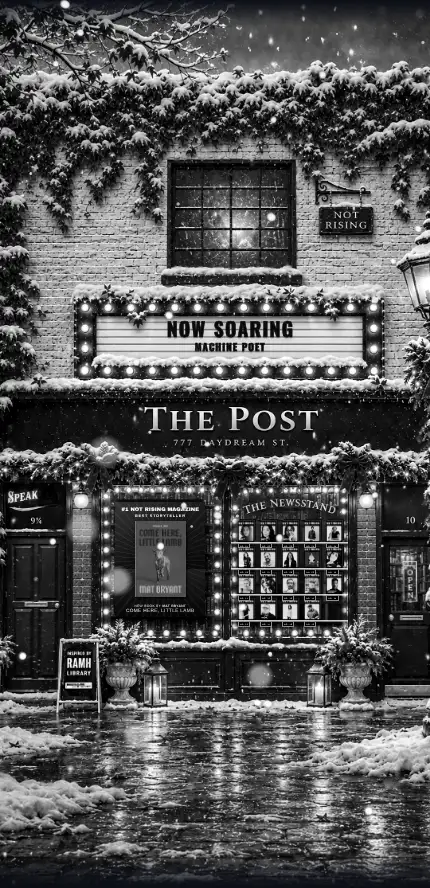
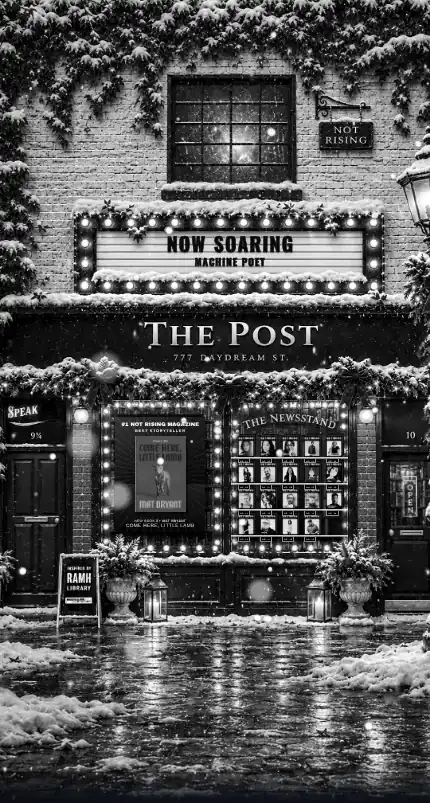
Phone storefront: crop the sky, open on the ivy
Winter phone picture (winter-phone-stage.webp) and its black-and-white Teleporting copy: the night sky and branches cut off the top (160 of the 810-wide plan), so phones open on the snowy ivy like the wide picture. Full-length street kept at the bottom.
storefront.js: STAGES.winter.phone moved up 160 to match (h 1512), plus a picture version so phones fetch the new picture.
storefront.css: picture shape 810 / 1512, pinned to the top of the screen (no top fade), Teleporting sign over the upstairs window.
index.html: version numbers bumped. tools: make-phone-stage.py and speakeasy-sign-easy.py updated to the new crop.

Claude-Session: https://claude.ai/code/session_018yMsHnbU2LCGJMUuPvSmNR

diff --git a/assets/storefront.css b/assets/storefront.css
@@ -323,7 +323,7 @@
 /* winter's own black-and-white street (index.html says data-season="winter" while winter is showing, so this one
    is the picture the browser fetches first) */
 .nrsf[data-season="winter"] .nrsf-teleport { background-image: url("img/storefront/winter-desk-bw.webp"); }
-@media (max-width: 639px) { .nrsf[data-season="winter"] .nrsf-teleport { background-image: url("img/storefront/winter-phone-bw.webp"); } }
+@media (max-width: 639px) { .nrsf[data-season="winter"] .nrsf-teleport { background-image: url("img/storefront/winter-phone-bw.webp?v=20261122f"); } }
 .nrsf .nrsf-teleport.gone { opacity: 0; }
 .nrsf .nrsf-tp-sign { position: absolute; left: 50%; top: 17.5%; translate: -50% -50%; margin: 0; white-space: nowrap;   /* hung over the upstairs window (17.5% down the street on both plans) */
   display: flex; align-items: baseline;
@@ -360,7 +360,7 @@
    ============================================================ */
 /* the street takes the picture's shape (1295 x 1215) on every screen, decided before anything loads */
 .nrsf[data-season="winter"] .nrsf-scene { aspect-ratio: 1295 / 1215; }
-@media (max-width: 639px) { .nrsf[data-season="winter"] .nrsf-scene { aspect-ratio: 810 / 1672; } }   /* phones: their own tall picture, zoomed in */
+@media (max-width: 639px) { .nrsf[data-season="winter"] .nrsf-scene { aspect-ratio: 810 / 1512; } }   /* phones: their own tall picture, zoomed in, starting at the ivy */
 /* painted pieces the picture already has */
 .nrsf--stage .nrsf-scene .nrsf-ivy, .nrsf--stage .nrsf-scene .nrsf-fascia, .nrsf--stage .nrsf-scene .nrsf-glassbox,
 .nrsf--stage .nrsf-scene .nrsf-opensign, .nrsf--stage .nrsf-scene .nrsf-interior, .nrsf--stage .nrsf-scene .nrsf-win .nrsf-glass,
@@ -381,15 +381,16 @@
 .nrsf--stage .nrsf-scene .nrsf-board { background: none; border: 0; box-shadow: none; }
 .nrsf--stage .nrsf-scene .nrsf-tiles:has(.sub) { font-size: min(7.4cqw, 51cqh); gap: .16em; }
 .nrsf--stage .nrsf-scene .nrsf-marquee[role=button]:hover { filter: brightness(1.06); }
-/* Phones: their own tall picture (STAGES.winter.phone), centred in a snowy night that fills whatever screen height is
-   left. Its top and bottom fade into the night, the snow falls over the whole screen (the sky layer), and the
-   small things to tap (the hanging sign, the A-frame, the poster) get a bigger invisible edge, so a finger finds them. */
+/* Phones: their own tall picture (STAGES.winter.phone). Like the wide picture on bigger screens, it starts right at
+   the top of the screen with the snowy ivy (no sky); if the screen is taller than the picture, the snowy night fills
+   the rest below the pavement. Its bottom fades into that night, the snow falls over the whole screen (the sky layer),
+   and the small things to tap (the hanging sign, the A-frame, the poster) get a bigger invisible edge, so a finger finds them. */
 @media (max-width: 639px) {
-  .nrsf[data-season="winter"] { min-height: 100vh; min-height: 100svh; display: flex; flex-direction: column; justify-content: center;
+  .nrsf[data-season="winter"] { min-height: 100vh; min-height: 100svh; display: flex; flex-direction: column; justify-content: flex-start;
     background: radial-gradient(ellipse 120% 70% at 50% 50%, #1a1f2d 0%, #0e121b 55%, #080a10 100%); }
-  .nrsf[data-season="winter"] .nrsf-scene { flex: none; -webkit-mask-image: linear-gradient(transparent 0, #000 3%, #000 96%, transparent 100%); mask-image: linear-gradient(transparent 0, #000 3%, #000 96%, transparent 100%); }
-  .nrsf[data-season="winter"] .nrsf-teleport { background-position: center; background-color: #0e121b; }
-  .nrsf[data-season="winter"] .nrsf-tp-sign { top: calc(50% - 53.8vw); }    /* over the upstairs window: the picture is 206vw tall, centred */
+  .nrsf[data-season="winter"] .nrsf-scene { flex: none; -webkit-mask-image: linear-gradient(#000 96%, transparent 100%); mask-image: linear-gradient(#000 96%, transparent 100%); }
+  .nrsf[data-season="winter"] .nrsf-teleport { background-position: top center; background-color: #0e121b; }
+  .nrsf[data-season="winter"] .nrsf-tp-sign { top: 29.9vw; }    /* over the upstairs window: its middle is 242 of the picture's 810 across, down from the top */
   .nrsf--stage .nrsf-scene .nrsf-signbox::after, .nrsf--stage .nrsf-scene .nrsf-floorsign::after, .nrsf--stage .nrsf-scene .nrsf-poster::after {
     content: ""; position: absolute; inset: -10px; }
 }

diff --git a/assets/storefront.js b/assets/storefront.js
@@ -96,17 +96,19 @@
       news: { x0: 24, x1: 292, y0: 64, cols: 5, coverW: 31, rowH: 53, tag: 3.6, tagGap: 3.5, ring: 0 },
       // PHONES (screens under 640 wide) get their own picture, made for a phone held upright: Kathi's tall winter
       // picture (winter-phone-stage.webp, made ready by tools/make-phone-stage.py), zoomed in so the shop fills the phone
-      // edge to edge, like the fall street. Its numbers are the cropped picture's own pixels (810 x 1672).
+      // edge to edge, like the fall street. Its numbers are the cropped picture's own pixels (810 x 1512).
+      // Like the wide picture, it starts at the snowy ivy: the night sky and branches above it (the top 160) are cut off.
       phone: {
-        stage: "winter", ref: 810, h: 1672, ground: 1322,      // (cropped from x 40 to 850 of her 941-wide picture: zoomed in)
-        sign: { x: 572, y: 332, w: 152, h: 116 },
-        marquee: { x: 140, y: 556, w: 585, h: 156 }, pad: [36, 43, 40, 44],   // pad: frame to board (top, right, bottom, left)
-        fascia: { x: 0, y: 735, w: 810, h: 128 },
-        neon: { x: 5, y: 905, w: 122, h: 95 }, num: { x: 718, y: 950, w: 90, h: 52 },
-        front: { glass: [{ x: 192, y: 915, w: 222, h: 280 }, { x: 426, y: 915, w: 238, h: 280 }] },
-        doors: [{ side: "l", leaf: { x: 14, y: 1012, w: 106, h: 288 } }, { side: "r", leaf: { x: 724, y: 1006, w: 80, h: 283 } }],
-        floorSign: { x: 104, y: 1198, w: 90, h: 146 },
-        poster: { x: 217, y: 946, w: 170 },
+        stage: "winter", ref: 810, h: 1512, ground: 1162,      // (cropped from x 40 to 850 and from y 160 down, of her 941 x 1672 picture)
+        v: "20261122f",                                         // the picture's version: change it whenever the picture file changes, so phones fetch the new one
+        sign: { x: 572, y: 172, w: 152, h: 116 },
+        marquee: { x: 140, y: 396, w: 585, h: 156 }, pad: [36, 43, 40, 44],   // pad: frame to board (top, right, bottom, left)
+        fascia: { x: 0, y: 575, w: 810, h: 128 },
+        neon: { x: 5, y: 745, w: 122, h: 95 }, num: { x: 718, y: 790, w: 90, h: 52 },
+        front: { glass: [{ x: 192, y: 755, w: 222, h: 280 }, { x: 426, y: 755, w: 238, h: 280 }] },
+        doors: [{ side: "l", leaf: { x: 14, y: 852, w: 106, h: 288 } }, { side: "r", leaf: { x: 724, y: 846, w: 80, h: 283 } }],
+        floorSign: { x: 104, y: 1038, w: 90, h: 146 },
+        poster: { x: 217, y: 786, w: 170 },
         news: { x0: 16, x1: 224, y0: 66, cols: 5, coverW: 30, rowH: 49, tag: 3.8, tagGap: 3, ring: 0 }
       }
     }
@@ -1861,7 +1863,8 @@
     }
     const picture = name => {
       const file = `storefront/${season}-${G.phone ? "phone" : "desk"}-${name}.webp`;
-      return PICS[file] || (PICS[file] = new Promise(res => { const i = new Image(); i.onload = () => res(i); i.onerror = () => res(null); i.src = img(file); }));
+      const ver = G.v ? "?v=" + G.v : "";                          // a stage picture's version (STAGES), so a changed picture is never an old copy from the browser's memory
+      return PICS[file] || (PICS[file] = new Promise(res => { const i = new Image(); i.onload = () => res(i); i.onerror = () => res(null); i.src = INLINE[file] || img(file) + ver; }));
     };
     function paintScene() {
       if (G.stage) return paintStage();

diff --git a/index.html b/index.html
@@ -28,7 +28,7 @@ body { margin: 0; font: 14px -apple-system, BlinkMacSystemFont, sans-serif; }
 img { max-width: 100%; }
 [hidden] { display: none !important; }
 </style>
-<link rel="stylesheet" href="assets/storefront.css?v=20261122e">
+<link rel="stylesheet" href="assets/storefront.css?v=20261122f">
 <script src="assets/season.js"></script><!-- the weather dial: the one word that picks the season -->
 </head>
 <body>
@@ -110,6 +110,6 @@ document.getElementById("nrsf").dataset.season = String(window.NR_SEASON || "fal
 <script>window.NRSF_BASE = new URL("assets/img/", location.href).href; window.NRNS_BASE = "assets/img/";</script>
 <script src="assets/data.js?v=20261122e"></script>
 <script src="assets/snowfall.js?v=20261122d"></script><!-- the falling snow (winter) -->
-<script src="assets/storefront.js?v=20261122d"></script>
+<script src="assets/storefront.js?v=20261122f"></script>
 </body>
 </html>

diff --git a/tools/make-phone-stage.py b/tools/make-phone-stage.py
@@ -17,11 +17,12 @@ the wide one (tools/make-stage.py). This gets it ready the same way, in six step
      poster (POSTERS in data.js) hangs over it.
   5. The Speakeasy sign: only SPEAK is lit; EASY has almost worn away.
   6. Zoomed in like the fall street on phones: cropped from the red door's frame (x 40) to door 10's frame
-     (x 850), so both doors sit at the edges of the screen. Saved as assets/img/storefront/winter-phone-stage.webp,
+     (x 850), so both doors sit at the edges of the screen, and from y 160 down, so (like the wide picture) it
+     starts at the snowy ivy with no sky above (Kathi, Nov 22). Saved as assets/img/storefront/winter-phone-stage.webp,
      1080 pixels wide (a touch sharpened).
 
 Positions in steps 1-5 are in the whole picture's pixels (941 x 1672). STAGES.winter.phone in storefront.js uses
-the cropped picture's (810 x 1672): the same numbers, 40 less across.
+the cropped picture's (810 x 1512): the same numbers, 40 less across and 160 less down.
 """
 import os, sys, numpy as np, cv2
 from PIL import Image, ImageFilter
@@ -114,10 +115,12 @@ im = np.clip(f, 0, 255).astype(np.uint8)
 print("5. Speakeasy sign: SPEAK lit, EASY worn away")
 
 # 6. zoomed in like the fall street on phones: cropped from the red door's frame (x 40) to door 10's frame (x 850), so
-#    the shop fills the phone edge to edge and both doors sit at the edges of the screen; then saved
+#    the shop fills the phone edge to edge and both doors sit at the edges of the screen, and from y 160 down, so it starts
+#    at the snowy ivy (no night sky or branches above it, like the wide picture); then saved
 CROP = (40, 850)
-pic = Image.fromarray(cv2.cvtColor(im, cv2.COLOR_BGR2RGB)).crop((CROP[0], 0, CROP[1], 1672))
-out = pic.resize((1080, round(1672 * 1080 / (CROP[1] - CROP[0]))), Image.LANCZOS).filter(ImageFilter.UnsharpMask(1.0, 40, 2))
+TOP = 160
+pic = Image.fromarray(cv2.cvtColor(im, cv2.COLOR_BGR2RGB)).crop((CROP[0], TOP, CROP[1], 1672))
+out = pic.resize((1080, round((1672 - TOP) * 1080 / (CROP[1] - CROP[0]))), Image.LANCZOS).filter(ImageFilter.UnsharpMask(1.0, 40, 2))
 dst = os.path.join(OUT, "winter-phone-stage.webp")
 out.save(dst, "WEBP", quality=74, method=6)
 print("6. winter-phone-stage.webp", out.size, os.path.getsize(dst) // 1024, "KB")

diff --git a/tools/speakeasy-sign-easy.py b/tools/speakeasy-sign-easy.py
@@ -22,7 +22,7 @@ IMG = os.path.join(HERE, "..", "assets", "img", "storefront")
 GOLD = np.float32([92, 178, 226])        # the SPEAK paint's gold (BGR)
 PICS = {   # picture: (the patch behind EASY and its arrow: x0, y0, x1, y1 in its own pixels), glass size, how strong
     "winter-desk-stage": ((246, 1066, 333, 1124), 15, .28),
-    "winter-phone-stage": ((97, 1228, 160, 1276), 11, .32),
+    "winter-phone-stage": ((97, 1015, 160, 1063), 11, .32),   # (213 less down since the sky was cropped off, Nov 22)
 }
 
 
